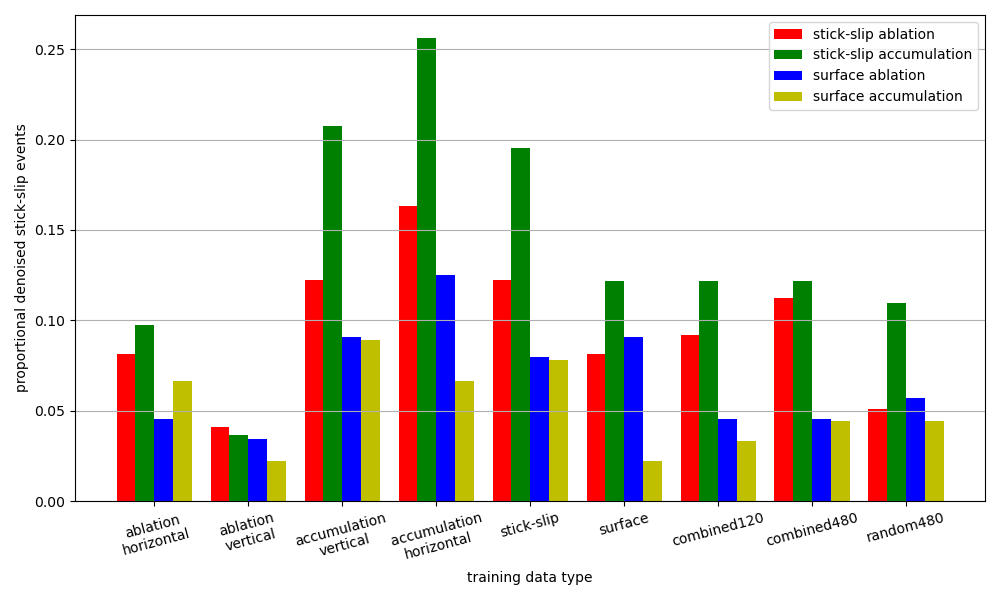
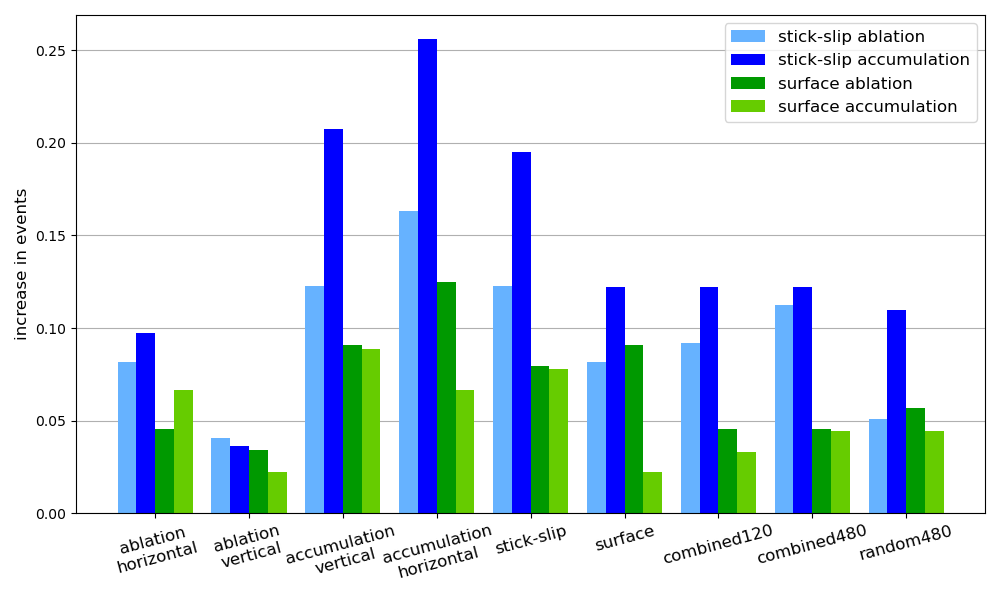
added some figures

Changed region(s): [[0.0, 0.03, 0.992, 0.99]]

diff --git a/evaluation/plot_visual_assesment_epoch_loss.py b/evaluation/plot_visual_assesment_epoch_loss.py
@@ -7,9 +7,9 @@ import json
 
 '''
 
-1. Visual Assesment
-
+1. Visual Assesment ALL
 '''
+
 models = ['ablation\nhorizontal', 'ablation\nvertical', 'accumulation\nvertical', ' accumulation\nhorizontal', 'stick-slip',
           'surface', 'combined120', 'combined480', 'random480']
 data_types = ['stick-slip ablation', 'stick-slip accumulation', 'surface ablation', 'surface accumulation']
@@ -17,6 +17,8 @@ stick_slip_ablation = [4/49, 2/49, 6/49, 8/49, 6/49, 4/49, 4.5/49, 5.5/49, 2.5/4
 stick_slip_accumulation = [4/41, 1.5/41, 8.5/41, 10.5/41, 8/41, 5/41, 5/41, 5/41, 4.5/41]
 surface_ablation = [2/44, 1.5/44, 4/44, 5.5/44, 3.5/44, 4/44, 2/44, 2/44, 2.5/44]
 surface_accumulation = [3/45, 1/45, 4/45, 3/45, 3.5/45, 1/45, 1.5/45, 2/45, 2/45]
+# bereits in rohen visible icequakes:
+raw_visible_quakes = [1/49, 18/41, 0, 36/45]
 visual_assesment_data = np.column_stack((stick_slip_ablation, stick_slip_accumulation, surface_ablation, surface_accumulation))
 
 # plotting:
@@ -26,29 +28,67 @@ bar_width = 0.2
 bar_positions = np.arange(len(models))
 
 # Farben für die Balken
-colors = ['r', 'g', 'b', 'y']  # Beispiel: Rote, grüne, blaue und gelbe Balken
+colors = ['#66B2FF', '#0000FF', '#009900', '#66CC00']  # Beispiel: Rote, grüne, blaue und gelbe Balken
 
 # Plot des Balkendiagramms für jede Kategorie und jeden Wert
 plt.figure(figsize=(10, 6))
+fontsize = 12
 for i in range(4):
-    plt.bar(bar_positions + i * bar_width, visual_assesment_data[:, i], width=bar_width, color=colors[i], label=data_types[i])
+    plt.bar(bar_positions + i * bar_width, visual_assesment_data[:, i], width=bar_width, color=colors[i], label=data_types[i], zorder=2)
 
 # Beschriftungen und Titel hinzufügen
-plt.xlabel('training data type')
-plt.ylabel('proportional denoised stick-slip events')
-#plt.title('Balkendiagramm für verschiedene Kategorien und Werte')
-plt.xticks(bar_positions + 0.3, models, rotation=15) #  rotation=45, ha='left'
-plt.legend()
-
-plt.grid(axis='y')  # Gitterlinien für die y-Achse anzeigen
+plt.ylabel('increase in events', size=fontsize)
+plt.xticks(bar_positions + 0.3, models, rotation=15, fontsize=fontsize)
+plt.legend(fontsize=fontsize)
+plt.grid(axis='y', zorder=0)  # Gitterlinien für die y-Achse anzeigen
 plt.tight_layout()
 #plt.savefig('plots/visual_assesnent.png')
-#plt.show()
+plt.show()
 
+
+
+'''
+
+1. Visual Assesment ONLY STICK-SLIP
+
+
+models = ['ablation\nhorizontal', 'ablation\nvertical', 'accumulation\nvertical', ' accumulation\nhorizontal', 'stick-slip',
+          'surface', 'combined120', 'combined480', 'random480']
+data_types = ['ablation', 'accumulation']
+stick_slip_ablation = [4/49, 2/49, 6/49, 8/49, 6/49, 4/49, 4.5/49, 5.5/49, 2.5/49]
+stick_slip_accumulation = [4/41, 1.5/41, 8.5/41, 10.5/41, 8/41, 5/41, 5/41, 5/41, 4.5/41]
+surface_ablation = [2/44, 1.5/44, 4/44, 5.5/44, 3.5/44, 4/44, 2/44, 2/44, 2.5/44]
+surface_accumulation = [3/45, 1/45, 4/45, 3/45, 3.5/45, 1/45, 1.5/45, 2/45, 2/45]
+visual_assesment_data_small = np.column_stack((stick_slip_ablation, stick_slip_accumulation))
+
+# plotting:
+bar_width = 0.2
+
+# Positionen der Balken
+bar_positions = np.arange(len(models))
+
+# Farben für die Balken
+colors = ['#66B2FF', '#0000FF', '#009900', '#66CC00']  # Beispiel: Rote, grüne, blaue und gelbe Balken
+
+# Plot des Balkendiagramms für jede Kategorie und jeden Wert
+plt.figure(figsize=(10, 6))
+fontsize = 12
+for i in range(2):
+    plt.bar(bar_positions + i * bar_width, visual_assesment_data_small[:, i], width=bar_width, color=colors[i], label=data_types[i], zorder=2)
+
+# Beschriftungen und Titel hinzufügen
+plt.ylabel('increase in stick-slip events', size=fontsize)
+plt.xticks(bar_positions + 0.1, models, rotation=15, fontsize=fontsize)
+plt.legend(fontsize=fontsize)
+plt.grid(axis='y', zorder=0)  # Gitterlinien für die y-Achse anzeigen
+plt.tight_layout()
+# plt.savefig('plots/visual_assesnent_small.png')
+plt.show()
+'''
 
 '''
 2. Epoch Loss
-'''
+
 
 train_last = [0.0612, 0.0621, 0.0637, 0.0634, 0.0661, 0.063, 0.0638, 0.0629, 0.0624]
 validation_last = [0.0612, 0.0637, 0.0643, 0.0654, 0.0648, 0.0615, 0.0623, 0.0644, 0.0634]
@@ -80,13 +120,13 @@ plt.legend()
 plt.grid(axis='y')  # Gitterlinien für die y-Achse anzeigen
 plt.tight_layout()
 #plt.savefig('plots/epoch_loss.png')
-#plt.show()
-
+plt.show()
+'''
 
 '''
 3. CC = Local Waveform coherence
 
-'''
+
 with open('cc_experiment_means.json', 'r') as file:
     data = json.load(file)
 
@@ -116,3 +156,53 @@ plt.grid(axis='y')  # Gitterlinien für die y-Achse anzeigen
 plt.tight_layout()
 #plt.savefig('plots/cc_gain_loss.png')
 #plt.show()
+'''
+'''
+4. CC = Local Waveform coherence: accumulation surface and stick-slip zusammenfassen und ablation surface und stick-slip zusammengfasst
+
+
+
+
+with open('cc_experiment_means.json', 'r') as file:
+    data = json.load(file)
+
+key_order = ['stick-slip_ablation', 'stick-slip_accumulation', 'surface_ablation', 'surface_accumulation']
+
+res_abl = []
+res_acc = []
+fontsize = 13
+
+for key in data:
+    vals = [data[key][subkey] for subkey in key_order]
+    abl = (vals[0] + vals[2]) / 2  # Mittelwert für Ablation
+    acc = (vals[1] + vals[3]) / 2  # Mittelwert für Akkumulation
+    res_abl.append(abl)
+    res_acc.append(acc)
+
+cc_data_small = np.column_stack([res_acc, res_abl])
+
+bar_width = 0.2
+# Positionen der Balken
+bar_positions = np.arange(len(models))
+# Farben für die Balken
+colors = ['#3399FF', '#0000CC']
+# Labels für Legende
+data_types_small = ['accumulation zone', 'ablation zone']
+
+# Plot des Balkendiagramms für jede Kategorie und jeden Wert
+plt.figure(figsize=(10, 6))
+for i in range(2):
+    plt.bar(bar_positions + i * bar_width, cc_data_small[:, i], width=bar_width, color=colors[i], label=data_types_small[i], zorder=i+2)
+
+# Beschriftungen und Titel hinzufügen
+plt.ylabel('cc gain []', size=fontsize)
+plt.axhline(y=1, color = 'black', zorder=1)
+plt.grid(axis='y', zorder=0)
+plt.xticks(bar_positions + 0.1, models, rotation=15, size=fontsize) #  rotation=45, ha='left'
+plt.legend(fontsize=fontsize)
+
+
+plt.tight_layout()
+#plt.savefig('plots/cc_gain_loss_acc_vs_ab.png')
+plt.show()
+'''
